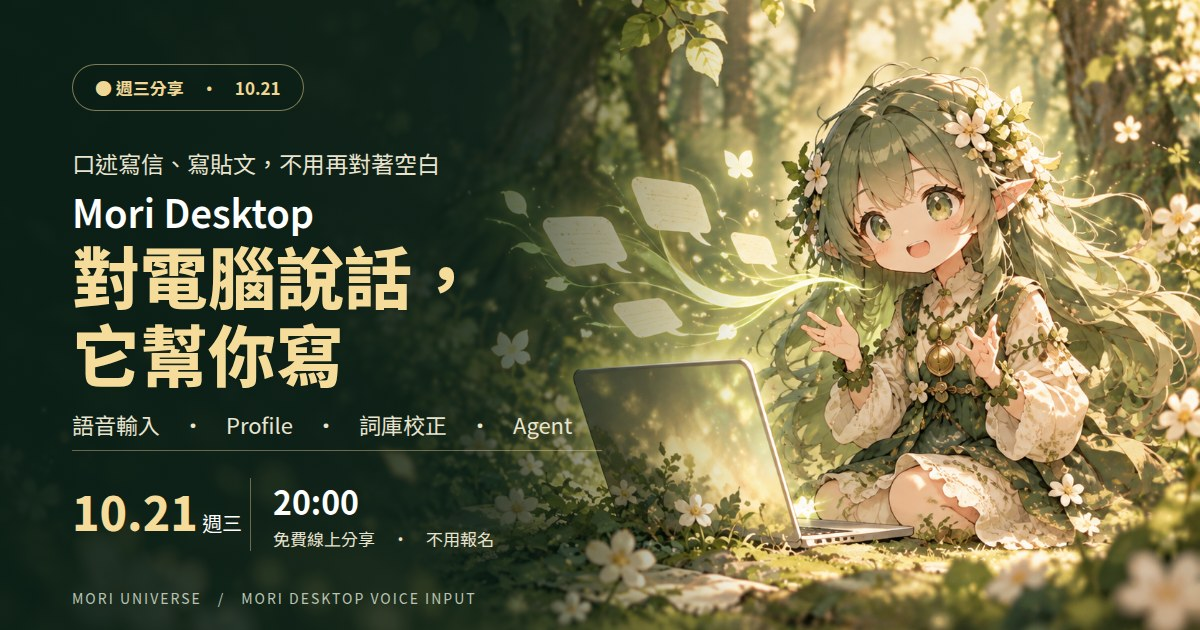
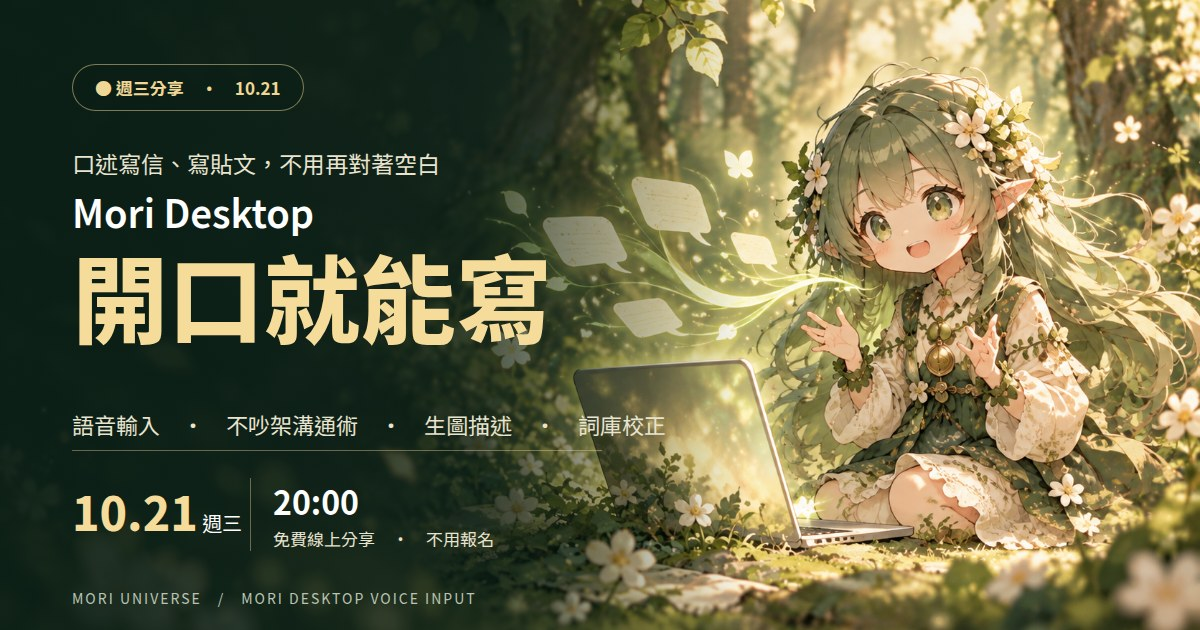
10/21 活動頁標題改為「開口就能寫」並更新封面 (#52)

Changed region(s): [[0.0617, 0.3921, 0.4625, 0.6333], [0.185, 0.6635, 0.555, 0.6937]]

diff --git a/events/mori-desktop-2026-10-21.md b/events/mori-desktop-2026-10-21.md
@@ -1,6 +1,6 @@
 ---
 layout: event
-title: 對電腦說話，它幫你寫：Mori Desktop 語音輸入
+title: 開口就能寫：Mori Desktop 語音輸入
 subtitle: 下載安裝、填一把金鑰，按一個鍵口述信件、LINE 貼文與提示詞，整理好直接貼到游標的位置。
 permalink: /events/mori-desktop-2026-10-21/
 event_batch: mori-desktop-2026-10-21
